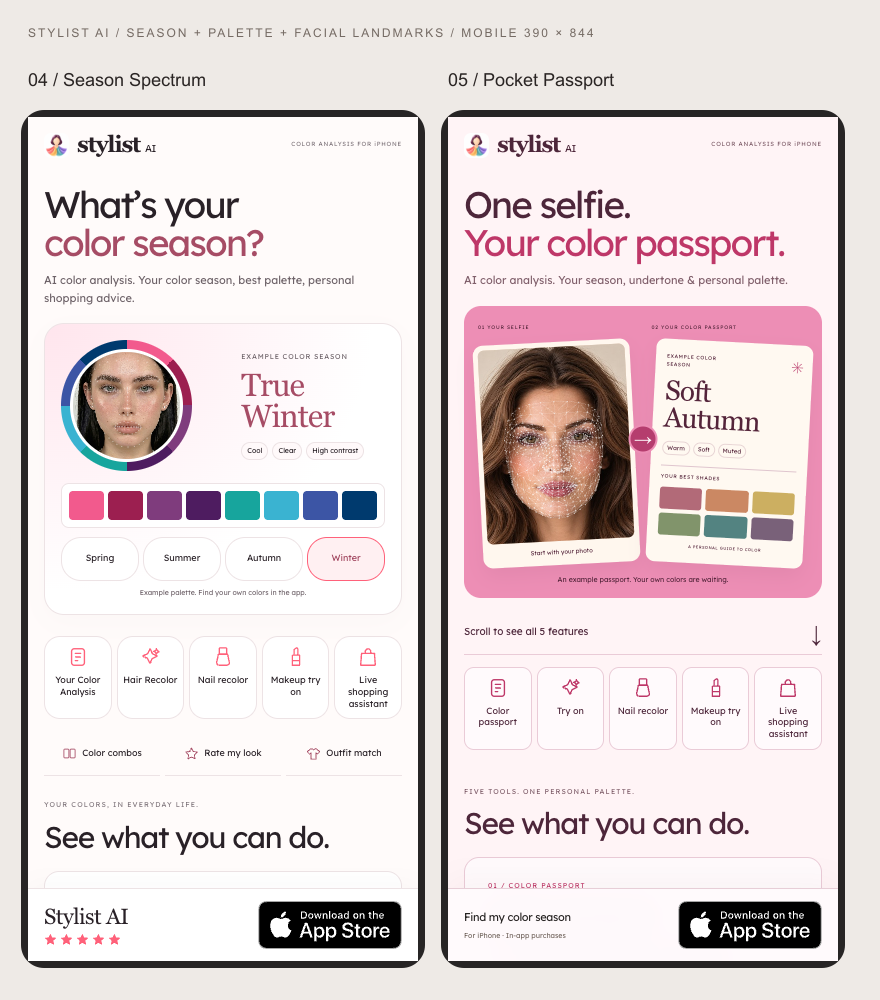
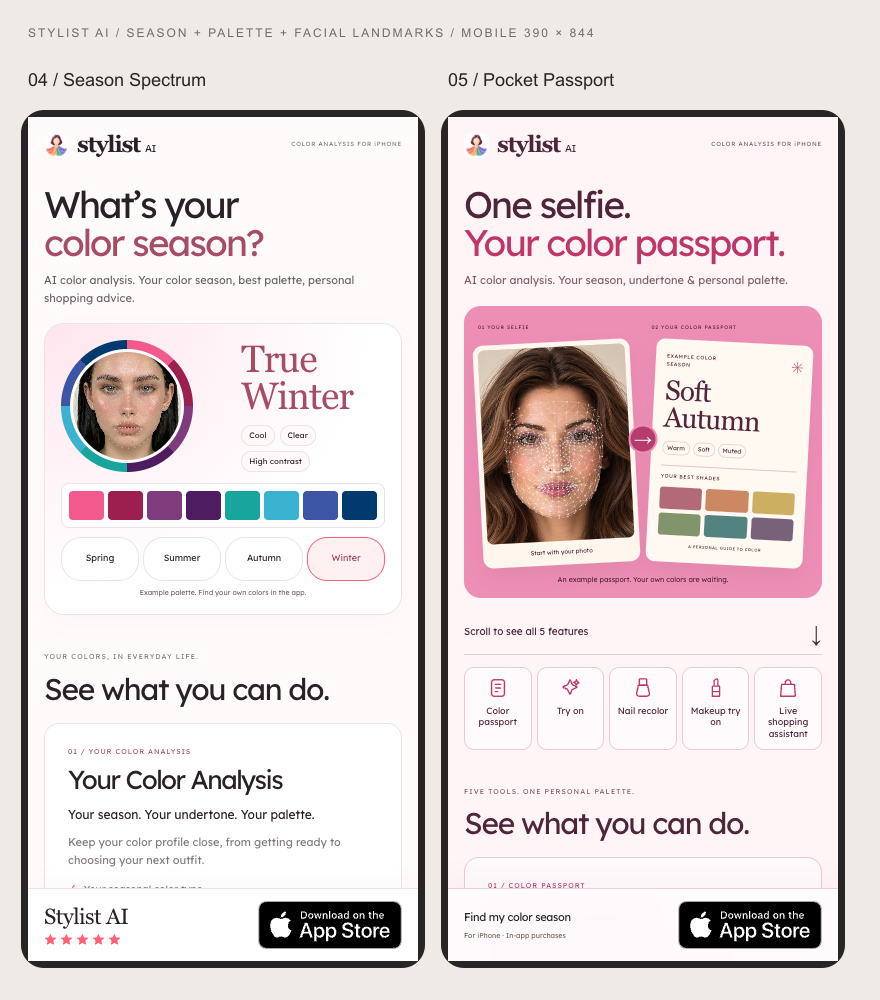
Simplify feature navigation and enlarge the seasonal result

diff --git a/stylist_ai/landing/v2/04-season-spectrum/index.html b/stylist_ai/landing/v2/04-season-spectrum/index.html
@@ -1,3 +1,3 @@
 <!doctype html><html lang="en"><head>
-<meta charset="utf-8"><meta name="viewport" content="width=device-width,initial-scale=1,viewport-fit=cover"><meta name="theme-color" content="#FFFBFA"><title>Find your color season — Stylist AI</title><meta name="description" content="Discover your color season and palette. Try hair and makeup looks, recolor nails, and take your palette shopping with Stylist AI for iPhone."><meta property="og:title" content="Your season. Your palette. Stylist AI."><meta property="og:description" content="Your Color Analysis, color combos, beauty tools, outfit advice & live shopping. Find your colors with Stylist AI."><meta property="og:type" content="website"><meta property="og:image" content="https://bestme.mobi/stylist_ai/landing/v2/assets/social-spectrum.jpg"><link rel="icon" href="../assets/icon.png"><link rel="stylesheet" href="../styles.css?v=2"><script src="../app.js?v=3" defer></script><link rel="stylesheet" href="./spectrum.css?v=7"></head>
-<body class="spectrum" data-variant="04-season-spectrum" id="top"><a class="skip" href="#main">Skip to content</a><header class="site-header container"><a class="brand" href="#top" aria-label="Stylist AI home"><img src="../assets/icon.png" width="28" height="28" alt=""><span>stylist <b>AI</b></span></a><span class="header-caption">COLOR ANALYSIS FOR iPHONE</span></header><main id="main"><section class="hero container" aria-label="Discover your color season"><div class="hero-intro"><h1>What’s your<br><em>color season?</em></h1><p>AI color analysis. Your color season, best palette, personal shopping advice.</p></div><div class="hero-proof"><div class="result-card"><div class="spectrum-pair"><div class="color-halo"><div class="face-photo"><img class="portrait" src="../assets/winter-model.jpg" width="834" height="1482" alt="Stylist AI ad model with subtle glowing facial landmark dots" fetchpriority="high"><img class="mesh" src="../assets/winter-landmarks.svg" width="834" height="1482" alt="" aria-hidden="true"></div></div><div class="season-result"><p class="micro">EXAMPLE COLOR SEASON</p><strong data-season-result>True Winter</strong><p class="traits"><span>Cool</span><span>Clear</span><span>High contrast</span></p></div></div><div class="palette hero-palette" data-first-palette aria-label="Sample True Winter color palette"><div class="color" style="--color:#F25A8D" title="Pink"><i></i></div><div class="color" style="--color:#9C1F50" title="Berry"><i></i></div><div class="color" style="--color:#7F3C7D" title="Orchid"><i></i></div><div class="color" style="--color:#4E1C60" title="Plum"><i></i></div><div class="color" style="--color:#17A59D" title="Teal"><i></i></div><div class="color" style="--color:#3AB3D1" title="Aqua"><i></i></div><div class="color" style="--color:#3C55A5" title="Cobalt"><i></i></div><div class="color" style="--color:#003A6E" title="Navy"><i></i></div></div><div class="season-tabs" role="group" aria-label="Preview example seasonal palettes"><button type="button" data-season="spring" aria-pressed="false">Spring</button><button type="button" data-season="summer" aria-pressed="false">Summer</button><button type="button" data-season="autumn" aria-pressed="false">Autumn</button><button type="button" data-season="winter" aria-pressed="true">Winter</button></div><span class="sample-disclaimer">Example palette. Find your own colors in the app.</span></div></div></section><nav class="feature-nav container" aria-label="Stylist AI features"><a href="#passport" aria-label="See Your Color Analysis"><svg viewBox="0 0 24 24" fill="none" stroke="currentColor" stroke-width="1.5" stroke-linecap="round" stroke-linejoin="round" aria-hidden="true"><rect x="5" y="3" width="14" height="18" rx="3"/><path d="M9 8h6M9 12h6M9 16h3"/></svg><span>Your Color Analysis</span></a><a href="#try-on" aria-label="See Hair Recolor"><svg viewBox="0 0 24 24" fill="none" stroke="currentColor" stroke-width="1.5" stroke-linecap="round" stroke-linejoin="round" aria-hidden="true"><path d="m12 3 2.6 5.4L20 11l-5.4 2.6L12 19l-2.6-5.4L4 11l5.4-2.6Z"/><path d="m19 3 1 2 2 1-2 1-1 2-1-2-2-1 2-1Z"/></svg><span>Hair Recolor</span></a><a href="#nails" aria-label="See Nail recolor"><svg viewBox="0 0 24 24" fill="none" stroke="currentColor" stroke-width="1.5" stroke-linecap="round" stroke-linejoin="round" aria-hidden="true"><rect x="8" y="2" width="8" height="7" rx="1"/><path d="M7 9h10l2 9a3 3 0 0 1-3 3H8a3 3 0 0 1-3-3Z"/></svg><span>Nail recolor</span></a><a href="#makeup" aria-label="See Makeup try on"><svg viewBox="0 0 24 24" fill="none" stroke="currentColor" stroke-width="1.5" stroke-linecap="round" stroke-linejoin="round" aria-hidden="true"><path d="M8 10h8v11H8zM10 10V4c0-1 4-3 4-1v7M8 16h8"/></svg><span>Makeup try on</span></a><a href="#shopping" aria-label="See Live shopping assistant"><svg viewBox="0 0 24 24" fill="none" stroke="currentColor" stroke-width="1.5" stroke-linecap="round" stroke-linejoin="round" aria-hidden="true"><path d="M5 8h14l1 13H4ZM9 8V6a3 3 0 0 1 6 0v2"/></svg><span>Live shopping assistant</span></a></nav><nav class="feature-shortcuts container" aria-label="More styling tools"><a href="#combos" aria-label="See Color combos"><svg viewBox="0 0 24 24" fill="none" stroke="currentColor" stroke-width="1.4" stroke-linecap="round" stroke-linejoin="round" aria-hidden="true"><rect x="3" y="5" width="8" height="14" rx="2"/><rect x="13" y="5" width="8" height="14" rx="2"/></svg><span>Color combos</span></a><a href="#rate-look" aria-label="See Rate my look"><svg viewBox="0 0 24 24" fill="none" stroke="currentColor" stroke-width="1.4" stroke-linecap="round" stroke-linejoin="round" aria-hidden="true"><path d="m12 3 2.8 5.8 6.4.9-4.6 4.5 1.1 6.4-5.7-3-5.7 3 1.1-6.4-4.6-4.5 6.4-.9Z"/></svg><span>Rate my look</span></a><a href="#outfit-match" aria-label="See Outfit match"><svg viewBox="0 0 24 24" fill="none" stroke="currentColor" stroke-width="1.4" stroke-linecap="round" stroke-linejoin="round" aria-hidden="true"><path d="m8 4 4 2 4-2 6 5-4 4-2-2v10H8V11l-2 2-4-4Z"/></svg><span>Outfit match</span></a></nav><section class="features container" id="features"><div class="section-heading"><span class="micro">YOUR COLORS, IN EVERYDAY LIFE.</span><h2>See what you can do.</h2></div><article id="passport" class="passport-feature" data-feature="passport"><div class="passport-feature-copy"><p class="number">01 / YOUR COLOR ANALYSIS</p><h3>Your Color Analysis</h3><p class="benefit">Your season. Your undertone. Your palette.</p><p>Keep your color profile close, from getting ready to choosing your next outfit.</p><ul><li>Your seasonal color type</li><li>Your personal palette</li><li>Color guidance for your look</li></ul></div><div class="passport-feature-art"><span class="micro">YOUR COLOR ANALYSIS · EXAMPLE</span><strong>True Winter</strong><div class="attribute-row"><span>Cool undertone</span><span>High contrast</span></div><div class="palette " aria-label="Sample True Winter color palette"><div class="color" style="--color:#F25A8D" title="Pink"><i></i><span>Pink</span></div><div class="color" style="--color:#9C1F50" title="Berry"><i></i><span>Berry</span></div><div class="color" style="--color:#7F3C7D" title="Orchid"><i></i><span>Orchid</span></div><div class="color" style="--color:#4E1C60" title="Plum"><i></i><span>Plum</span></div><div class="color" style="--color:#17A59D" title="Teal"><i></i><span>Teal</span></div><div class="color" style="--color:#3AB3D1" title="Aqua"><i></i><span>Aqua</span></div><div class="color" style="--color:#3C55A5" title="Cobalt"><i></i><span>Cobalt</span></div><div class="color" style="--color:#003A6E" title="Navy"><i></i><span>Navy</span></div></div></div></article><div class="feature-grid"><article class="feature-card" id="combos" data-feature="combos"><div class="feature-image"><img src="../assets/color-combos-ai.webp" width="960" height="960" loading="lazy" alt="Cobalt blue with icy white and raspberry pink with charcoal: two coordinated outfit color pairings"><span class="feature-image-icon"><svg viewBox="0 0 24 24" fill="none" stroke="currentColor" stroke-width="1.4" stroke-linecap="round" stroke-linejoin="round" aria-hidden="true"><rect x="3" y="5" width="8" height="14" rx="2"/><rect x="13" y="5" width="8" height="14" rx="2"/></svg></span></div><div class="feature-copy"><p class="number">COLOR COMBINATIONS</p><h3>Best color combos</h3><p class="benefit">Turn your palette into outfits.</p><p>Discover colors that work together, with outfit pairings and tips on how to wear them.</p><a href="https://apps.apple.com/app/id6739435502" target="_top" data-download data-placement="combos">Try in Stylist AI <span aria-hidden="true">↗</span></a></div></article><article class="feature-card" id="try-on" data-feature="try-on"><div class="feature-image"><img src="../assets/hair.webp" width="720" height="900" loading="lazy" alt="Hair Recolor example"><span class="feature-image-icon"><svg viewBox="0 0 24 24" fill="none" stroke="currentColor" stroke-width="1.5" stroke-linecap="round" stroke-linejoin="round" aria-hidden="true"><path d="m12 3 2.6 5.4L20 11l-5.4 2.6L12 19l-2.6-5.4L4 11l5.4-2.6Z"/><path d="m19 3 1 2 2 1-2 1-1 2-1-2-2-1 2-1Z"/></svg></span></div><div class="feature-copy"><p class="number">02 / HAIR RECOLOR</p><h3>Hair Recolor</h3><p class="benefit">Find your next hair color.</p><p>Preview a new hair shade on your own photo before you make a change.</p><a href="https://apps.apple.com/app/id6739435502" target="_top" data-download data-placement="try-on">Try in Stylist AI <span aria-hidden="true">↗</span></a></div></article><article class="feature-card" id="nails" data-feature="nails"><div class="feature-image"><img src="../assets/nails.webp" width="720" height="900" loading="lazy" alt="Nail recolor example"><span class="feature-image-icon"><svg viewBox="0 0 24 24" fill="none" stroke="currentColor" stroke-width="1.5" stroke-linecap="round" stroke-linejoin="round" aria-hidden="true"><rect x="8" y="2" width="8" height="7" rx="1"/><path d="M7 9h10l2 9a3 3 0 0 1-3 3H8a3 3 0 0 1-3-3Z"/></svg></span></div><div class="feature-copy"><p class="number">03 / NAIL RECOLOR</p><h3>Nail recolor</h3><p class="benefit">Pick your polish before the salon.</p><p>Preview a new nail color and find your next manicure shade.</p><a href="https://apps.apple.com/app/id6739435502" target="_top" data-download data-placement="nails">Try in Stylist AI <span aria-hidden="true">↗</span></a></div></article><article class="feature-card" id="makeup" data-feature="makeup"><div class="feature-image"><img src="../assets/makeup-try-on.webp" width="720" height="900" loading="lazy" alt="Before and after makeup try on example"><span class="feature-image-icon"><svg viewBox="0 0 24 24" fill="none" stroke="currentColor" stroke-width="1.5" stroke-linecap="round" stroke-linejoin="round" aria-hidden="true"><path d="M8 10h8v11H8zM10 10V4c0-1 4-3 4-1v7M8 16h8"/></svg></span><span class="makeup-divider" aria-hidden="true"></span><span class="makeup-label before">Before</span><span class="makeup-label after">After</span></div><div class="feature-copy"><p class="number">04 / MAKEUP TRY ON</p><h3>Makeup try on</h3><p class="benefit">Try the makeup look on you.</p><p>See how a new makeup combination looks on your own photo.</p><a href="https://apps.apple.com/app/id6739435502" target="_top" data-download data-placement="makeup">Try in Stylist AI <span aria-hidden="true">↗</span></a></div></article><article class="feature-card" id="shopping" data-feature="shopping"><div class="feature-image"><img src="../assets/shopping-fabric.jpg" width="720" height="900" loading="lazy" alt="Live shopping assistant example"><span class="shopping-scan" aria-hidden="true"><i></i></span><span class="art-example">Example</span><div class="match-overlay"><svg viewBox="0 0 40 40" aria-hidden="true"><circle cx="20" cy="20" r="16" fill="none" stroke="#e8efeb" stroke-width="3"/><circle cx="20" cy="20" r="16" fill="none" stroke="#28755c" stroke-width="3" stroke-linecap="round" stroke-dasharray="92 100" pathLength="100" transform="rotate(-90 20 20)"/><path d="m14 20 4 4 8-9" fill="none" stroke="#28755c" stroke-width="2" stroke-linecap="round" stroke-linejoin="round"/></svg><span><strong>92%</strong><small>match with your style</small></span></div></div><div class="feature-copy"><p class="number">05 / LIVE SHOPPING ASSISTANT</p><h3>Live shopping assistant</h3><p class="benefit">Check a color while you shop.</p><p>Point your camera at a shade and compare it with your personal palette.</p><a href="https://apps.apple.com/app/id6739435502" target="_top" data-download data-placement="shopping">Try in Stylist AI <span aria-hidden="true">↗</span></a></div></article><article class="feature-card" id="rate-look" data-feature="rate-look"><div class="feature-image"><img src="../assets/rate-look.jpg" loading="lazy" alt="Rate my look preview"><span class="art-example">Example</span><div class="look-rating"><span class="rating-star" aria-hidden="true">✧</span><span><strong>8<small>/10</small></strong><small>Overall styling</small></span></div></div><div class="feature-copy"><p class="number">THE STYLE EDIT</p><h3>Rate my look</h3><p class="benefit">Polish the whole outfit.</p><p>Upload your look for a style rating, practical advice and scores for different occasions.</p><a href="https://apps.apple.com/app/id6739435502" target="_top" data-download data-placement="rate-look">Try in Stylist AI <span aria-hidden="true">↗</span></a></div></article><article class="feature-card" id="outfit-match" data-feature="outfit-match"><div class="feature-image"><img src="../assets/outfit.webp" loading="lazy" alt="Will that outfit suit me? preview"><span class="art-example">Example</span><div class="match-overlay"><svg viewBox="0 0 40 40" aria-hidden="true"><circle cx="20" cy="20" r="16" fill="none" stroke="#e8efeb" stroke-width="3"/><circle cx="20" cy="20" r="16" fill="none" stroke="#28755c" stroke-width="3" stroke-linecap="round" stroke-dasharray="94 100" pathLength="100" transform="rotate(-90 20 20)"/><path d="m14 20 4 4 8-9" fill="none" stroke="#28755c" stroke-width="2" stroke-linecap="round" stroke-linejoin="round"/></svg><span><strong>94%</strong><small>you will shine with it</small></span></div></div><div class="feature-copy"><p class="number">OUTFIT MATCH</p><h3>Will that outfit suit me?</h3><p class="benefit">Check it before you buy it.</p><p>Upload an outfit photo to see how its colors work with your season and personal palette.</p><a href="https://apps.apple.com/app/id6739435502" target="_top" data-download data-placement="outfit-match">Try in Stylist AI <span aria-hidden="true">↗</span></a></div></article></div></section><section class="how container"><div><span class="micro">START WITH A SELFIE</span><h2>Your colors, in three steps.</h2></div><ol><li><b>01</b><span>Download Stylist AI</span></li><li><b>02</b><span>Add a clear photo in natural light</span></li><li><b>03</b><span>Discover your season & try your colors</span></li></ol></section><section class="closing container"><p class="micro">YOUR SEASON IS JUST THE START</p><h2>Find your colors.<br>Try them on you.</h2><p>Color analysis, beauty try-on & shopping — in one app.</p></section></main><footer class="container"><a class="brand" href="#top" aria-label="Stylist AI home"><img src="../assets/icon.png" width="28" height="28" alt=""><span>stylist <b>AI</b></span></a><div class="legal-links"><a href="https://bestme.mobi/stylist-ai-privacy-policy.html">Privacy</a><a href="https://bestme.mobi/stylist-ai-terms-of-use.html">Terms</a><a href="https://bestme.mobi/support.html">Support</a></div><p>Example imagery, palettes and scores. Results vary. © Aleksandr Korenev.</p><p>Apple and the Apple logo are trademarks of Apple Inc. App Store is a service mark of Apple Inc.</p></footer><aside class="download-dock" aria-label="Download Stylist AI"><div class="dock-inner"><div class="dock-copy"><strong>Stylist AI</strong><span class="dock-stars" aria-hidden="true"><svg viewBox="0 0 20 20"><path d="m10 1 2.7 5.7 6.3.9-4.5 4.4 1.1 6.2-5.6-3-5.6 3 1.1-6.2L1 7.6l6.3-.9Z"/></svg><svg viewBox="0 0 20 20"><path d="m10 1 2.7 5.7 6.3.9-4.5 4.4 1.1 6.2-5.6-3-5.6 3 1.1-6.2L1 7.6l6.3-.9Z"/></svg><svg viewBox="0 0 20 20"><path d="m10 1 2.7 5.7 6.3.9-4.5 4.4 1.1 6.2-5.6-3-5.6 3 1.1-6.2L1 7.6l6.3-.9Z"/></svg><svg viewBox="0 0 20 20"><path d="m10 1 2.7 5.7 6.3.9-4.5 4.4 1.1 6.2-5.6-3-5.6 3 1.1-6.2L1 7.6l6.3-.9Z"/></svg><svg viewBox="0 0 20 20"><path d="m10 1 2.7 5.7 6.3.9-4.5 4.4 1.1 6.2-5.6-3-5.6 3 1.1-6.2L1 7.6l6.3-.9Z"/></svg></span></div><a class="app-store" href="https://apps.apple.com/app/id6739435502" target="_top" data-download data-placement="sticky" aria-label="Download Stylist AI on the App Store"><img src="../assets/app-store.svg" width="150" height="50" alt="Download on the App Store"></a></div></aside></body></html>
+<meta charset="utf-8"><meta name="viewport" content="width=device-width,initial-scale=1,viewport-fit=cover"><meta name="theme-color" content="#FFFBFA"><title>Find your color season — Stylist AI</title><meta name="description" content="Discover your color season and palette. Try hair and makeup looks, recolor nails, and take your palette shopping with Stylist AI for iPhone."><meta property="og:title" content="Your season. Your palette. Stylist AI."><meta property="og:description" content="Your Color Analysis, color combos, beauty tools, outfit advice & live shopping. Find your colors with Stylist AI."><meta property="og:type" content="website"><meta property="og:image" content="https://bestme.mobi/stylist_ai/landing/v2/assets/social-spectrum.jpg"><link rel="icon" href="../assets/icon.png"><link rel="stylesheet" href="../styles.css?v=2"><script src="../app.js?v=3" defer></script><link rel="stylesheet" href="./spectrum.css?v=9"></head>
+<body class="spectrum" data-variant="04-season-spectrum" id="top"><a class="skip" href="#main">Skip to content</a><header class="site-header container"><a class="brand" href="#top" aria-label="Stylist AI home"><img src="../assets/icon.png" width="28" height="28" alt=""><span>stylist <b>AI</b></span></a><span class="header-caption">COLOR ANALYSIS FOR iPHONE</span></header><main id="main"><section class="hero container" aria-label="Discover your color season"><div class="hero-intro"><h1>What’s your<br><em>color season?</em></h1><p>AI color analysis. Your color season, best palette, personal shopping advice.</p></div><div class="hero-proof"><div class="result-card"><div class="spectrum-pair"><div class="color-halo"><div class="face-photo"><img class="portrait" src="../assets/winter-model.jpg" width="834" height="1482" alt="Stylist AI ad model with subtle glowing facial landmark dots" fetchpriority="high"><img class="mesh" src="../assets/winter-landmarks.svg" width="834" height="1482" alt="" aria-hidden="true"></div></div><div class="season-result"><strong data-season-result>True Winter</strong><p class="traits"><span>Cool</span><span>Clear</span><span>High contrast</span></p></div></div><div class="palette hero-palette" data-first-palette aria-label="Sample True Winter color palette"><div class="color" style="--color:#F25A8D" title="Pink"><i></i></div><div class="color" style="--color:#9C1F50" title="Berry"><i></i></div><div class="color" style="--color:#7F3C7D" title="Orchid"><i></i></div><div class="color" style="--color:#4E1C60" title="Plum"><i></i></div><div class="color" style="--color:#17A59D" title="Teal"><i></i></div><div class="color" style="--color:#3AB3D1" title="Aqua"><i></i></div><div class="color" style="--color:#3C55A5" title="Cobalt"><i></i></div><div class="color" style="--color:#003A6E" title="Navy"><i></i></div></div><div class="season-tabs" role="group" aria-label="Preview example seasonal palettes"><button type="button" data-season="spring" aria-pressed="false">Spring</button><button type="button" data-season="summer" aria-pressed="false">Summer</button><button type="button" data-season="autumn" aria-pressed="false">Autumn</button><button type="button" data-season="winter" aria-pressed="true">Winter</button></div><span class="sample-disclaimer">Example palette. Find your own colors in the app.</span></div></div></section><section class="features container" id="features"><div class="section-heading"><span class="micro">YOUR COLORS, IN EVERYDAY LIFE.</span><h2>See what you can do.</h2></div><article id="passport" class="passport-feature" data-feature="passport"><div class="passport-feature-copy"><p class="number">01 / YOUR COLOR ANALYSIS</p><h3>Your Color Analysis</h3><p class="benefit">Your season. Your undertone. Your palette.</p><p>Keep your color profile close, from getting ready to choosing your next outfit.</p><ul><li>Your seasonal color type</li><li>Your personal palette</li><li>Color guidance for your look</li></ul></div><div class="passport-feature-art"><span class="micro">YOUR COLOR ANALYSIS · EXAMPLE</span><strong>True Winter</strong><div class="attribute-row"><span>Cool undertone</span><span>High contrast</span></div><div class="palette " aria-label="Sample True Winter color palette"><div class="color" style="--color:#F25A8D" title="Pink"><i></i><span>Pink</span></div><div class="color" style="--color:#9C1F50" title="Berry"><i></i><span>Berry</span></div><div class="color" style="--color:#7F3C7D" title="Orchid"><i></i><span>Orchid</span></div><div class="color" style="--color:#4E1C60" title="Plum"><i></i><span>Plum</span></div><div class="color" style="--color:#17A59D" title="Teal"><i></i><span>Teal</span></div><div class="color" style="--color:#3AB3D1" title="Aqua"><i></i><span>Aqua</span></div><div class="color" style="--color:#3C55A5" title="Cobalt"><i></i><span>Cobalt</span></div><div class="color" style="--color:#003A6E" title="Navy"><i></i><span>Navy</span></div></div></div></article><div class="feature-grid"><article class="feature-card" id="combos" data-feature="combos"><div class="feature-image"><img src="../assets/color-combos-ai.webp" width="960" height="960" loading="lazy" alt="Cobalt blue with icy white and raspberry pink with charcoal: two coordinated outfit color pairings"><span class="feature-image-icon"><svg viewBox="0 0 24 24" fill="none" stroke="currentColor" stroke-width="1.4" stroke-linecap="round" stroke-linejoin="round" aria-hidden="true"><rect x="3" y="5" width="8" height="14" rx="2"/><rect x="13" y="5" width="8" height="14" rx="2"/></svg></span></div><div class="feature-copy"><p class="number">COLOR COMBINATIONS</p><h3>Best color combos</h3><p class="benefit">Turn your palette into outfits.</p><p>Discover colors that work together, with outfit pairings and tips on how to wear them.</p><a href="https://apps.apple.com/app/id6739435502" target="_top" data-download data-placement="combos">Try in Stylist AI <span aria-hidden="true">↗</span></a></div></article><article class="feature-card" id="try-on" data-feature="try-on"><div class="feature-image"><img src="../assets/hair.webp" width="720" height="900" loading="lazy" alt="Hair Recolor example"><span class="feature-image-icon"><svg viewBox="0 0 24 24" fill="none" stroke="currentColor" stroke-width="1.5" stroke-linecap="round" stroke-linejoin="round" aria-hidden="true"><path d="m12 3 2.6 5.4L20 11l-5.4 2.6L12 19l-2.6-5.4L4 11l5.4-2.6Z"/><path d="m19 3 1 2 2 1-2 1-1 2-1-2-2-1 2-1Z"/></svg></span></div><div class="feature-copy"><p class="number">02 / HAIR RECOLOR</p><h3>Hair Recolor</h3><p class="benefit">Find your next hair color.</p><p>Preview a new hair shade on your own photo before you make a change.</p><a href="https://apps.apple.com/app/id6739435502" target="_top" data-download data-placement="try-on">Try in Stylist AI <span aria-hidden="true">↗</span></a></div></article><article class="feature-card" id="nails" data-feature="nails"><div class="feature-image"><img src="../assets/nails.webp" width="720" height="900" loading="lazy" alt="Nail Polish example"><span class="feature-image-icon"><svg viewBox="0 0 24 24" fill="none" stroke="currentColor" stroke-width="1.5" stroke-linecap="round" stroke-linejoin="round" aria-hidden="true"><rect x="8" y="2" width="8" height="7" rx="1"/><path d="M7 9h10l2 9a3 3 0 0 1-3 3H8a3 3 0 0 1-3-3Z"/></svg></span></div><div class="feature-copy"><p class="number">03 / NAIL POLISH</p><h3>Nail Polish</h3><p class="benefit">Pick your polish before the salon.</p><p>Preview a new nail color and find your next manicure shade.</p><a href="https://apps.apple.com/app/id6739435502" target="_top" data-download data-placement="nails">Try in Stylist AI <span aria-hidden="true">↗</span></a></div></article><article class="feature-card" id="makeup" data-feature="makeup"><div class="feature-image"><img src="../assets/makeup-try-on.webp" width="720" height="900" loading="lazy" alt="Before and after makeup try on example"><span class="feature-image-icon"><svg viewBox="0 0 24 24" fill="none" stroke="currentColor" stroke-width="1.5" stroke-linecap="round" stroke-linejoin="round" aria-hidden="true"><path d="M8 10h8v11H8zM10 10V4c0-1 4-3 4-1v7M8 16h8"/></svg></span><span class="makeup-divider" aria-hidden="true"></span><span class="makeup-label before">Before</span><span class="makeup-label after">After</span></div><div class="feature-copy"><p class="number">04 / MAKEUP TRY ON</p><h3>Makeup try on</h3><p class="benefit">Try the makeup look on you.</p><p>See how a new makeup combination looks on your own photo.</p><a href="https://apps.apple.com/app/id6739435502" target="_top" data-download data-placement="makeup">Try in Stylist AI <span aria-hidden="true">↗</span></a></div></article><article class="feature-card" id="shopping" data-feature="shopping"><div class="feature-image"><img src="../assets/shopping-fabric.jpg" width="720" height="900" loading="lazy" alt="Live shopping assistant example"><span class="shopping-scan" aria-hidden="true"><i></i></span><span class="art-example">Example</span><div class="match-overlay"><svg viewBox="0 0 40 40" aria-hidden="true"><circle cx="20" cy="20" r="16" fill="none" stroke="#e8efeb" stroke-width="3"/><circle cx="20" cy="20" r="16" fill="none" stroke="#28755c" stroke-width="3" stroke-linecap="round" stroke-dasharray="92 100" pathLength="100" transform="rotate(-90 20 20)"/><path d="m14 20 4 4 8-9" fill="none" stroke="#28755c" stroke-width="2" stroke-linecap="round" stroke-linejoin="round"/></svg><span><strong>92%</strong><small>match with your style</small></span></div></div><div class="feature-copy"><p class="number">05 / LIVE SHOPPING ASSISTANT</p><h3>Live shopping assistant</h3><p class="benefit">Check a color while you shop.</p><p>Point your camera at a shade and compare it with your personal palette.</p><a href="https://apps.apple.com/app/id6739435502" target="_top" data-download data-placement="shopping">Try in Stylist AI <span aria-hidden="true">↗</span></a></div></article><article class="feature-card" id="rate-look" data-feature="rate-look"><div class="feature-image"><img src="../assets/rate-look.jpg" loading="lazy" alt="Rate my look preview"><span class="art-example">Example</span><div class="look-rating"><span class="rating-star" aria-hidden="true">✧</span><span><strong>8<small>/10</small></strong><small>Overall styling</small></span></div></div><div class="feature-copy"><p class="number">THE STYLE EDIT</p><h3>Rate my look</h3><p class="benefit">Polish the whole outfit.</p><p>Upload your look for a style rating, practical advice and scores for different occasions.</p><a href="https://apps.apple.com/app/id6739435502" target="_top" data-download data-placement="rate-look">Try in Stylist AI <span aria-hidden="true">↗</span></a></div></article><article class="feature-card" id="outfit-match" data-feature="outfit-match"><div class="feature-image"><img src="../assets/outfit.webp" loading="lazy" alt="Will that outfit suit me? preview"><span class="art-example">Example</span><div class="match-overlay"><svg viewBox="0 0 40 40" aria-hidden="true"><circle cx="20" cy="20" r="16" fill="none" stroke="#e8efeb" stroke-width="3"/><circle cx="20" cy="20" r="16" fill="none" stroke="#28755c" stroke-width="3" stroke-linecap="round" stroke-dasharray="94 100" pathLength="100" transform="rotate(-90 20 20)"/><path d="m14 20 4 4 8-9" fill="none" stroke="#28755c" stroke-width="2" stroke-linecap="round" stroke-linejoin="round"/></svg><span><strong>94%</strong><small>you will shine with it</small></span></div></div><div class="feature-copy"><p class="number">OUTFIT MATCH</p><h3>Will that outfit suit me?</h3><p class="benefit">Check it before you buy it.</p><p>Upload an outfit photo to see how its colors work with your season and personal palette.</p><a href="https://apps.apple.com/app/id6739435502" target="_top" data-download data-placement="outfit-match">Try in Stylist AI <span aria-hidden="true">↗</span></a></div></article></div></section><section class="how container"><div><span class="micro">START WITH A SELFIE</span><h2>Your colors, in three steps.</h2></div><ol><li><b>01</b><span>Download Stylist AI</span></li><li><b>02</b><span>Add a clear photo in natural light</span></li><li><b>03</b><span>Discover your season & try your colors</span></li></ol></section><section class="closing container"><p class="micro">YOUR SEASON IS JUST THE START</p><h2>Find your colors.<br>Try them on you.</h2><p>Color analysis, beauty try-on & shopping — in one app.</p></section></main><footer class="container"><a class="brand" href="#top" aria-label="Stylist AI home"><img src="../assets/icon.png" width="28" height="28" alt=""><span>stylist <b>AI</b></span></a><div class="legal-links"><a href="https://bestme.mobi/stylist-ai-privacy-policy.html">Privacy</a><a href="https://bestme.mobi/stylist-ai-terms-of-use.html">Terms</a><a href="https://bestme.mobi/support.html">Support</a></div><p>Example imagery, palettes and scores. Results vary. © Aleksandr Korenev.</p><p>Apple and the Apple logo are trademarks of Apple Inc. App Store is a service mark of Apple Inc.</p></footer><aside class="download-dock" aria-label="Download Stylist AI"><div class="dock-inner"><div class="dock-copy"><strong>Stylist AI</strong><span class="dock-stars" aria-hidden="true"><svg viewBox="0 0 20 20"><path d="m10 1 2.7 5.7 6.3.9-4.5 4.4 1.1 6.2-5.6-3-5.6 3 1.1-6.2L1 7.6l6.3-.9Z"/></svg><svg viewBox="0 0 20 20"><path d="m10 1 2.7 5.7 6.3.9-4.5 4.4 1.1 6.2-5.6-3-5.6 3 1.1-6.2L1 7.6l6.3-.9Z"/></svg><svg viewBox="0 0 20 20"><path d="m10 1 2.7 5.7 6.3.9-4.5 4.4 1.1 6.2-5.6-3-5.6 3 1.1-6.2L1 7.6l6.3-.9Z"/></svg><svg viewBox="0 0 20 20"><path d="m10 1 2.7 5.7 6.3.9-4.5 4.4 1.1 6.2-5.6-3-5.6 3 1.1-6.2L1 7.6l6.3-.9Z"/></svg><svg viewBox="0 0 20 20"><path d="m10 1 2.7 5.7 6.3.9-4.5 4.4 1.1 6.2-5.6-3-5.6 3 1.1-6.2L1 7.6l6.3-.9Z"/></svg></span></div><a class="app-store" href="https://apps.apple.com/app/id6739435502" target="_top" data-download data-placement="sticky" aria-label="Download Stylist AI on the App Store"><img src="../assets/app-store.svg" width="150" height="50" alt="Download on the App Store"></a></div></aside></body></html>

diff --git a/stylist_ai/landing/v2/04-season-spectrum/spectrum.css b/stylist_ai/landing/v2/04-season-spectrum/spectrum.css
@@ -27,18 +27,14 @@
 .spectrum .color-halo .face-photo { height: 100%; width: 100%; border-color: #fff; background: #f4f3ef; }
 .spectrum .face-photo img { width: 100%; height: 100%; left: 0; top: 0; object-fit: cover; object-position: 50% 38%; }
 .spectrum .face-photo .mesh { opacity: .88; }
-.spectrum .season-result strong { color: #a64c65; }
-.spectrum .season-result .micro { color: #6d6268; }
-.spectrum .traits { flex-wrap: wrap; }
-.spectrum .traits span { border-color: var(--line); background: #fff9fa; }
+.spectrum .season-result strong { color: #a64c65; font-size: 50px; line-height: .98; margin: 0 0 14px; }
+.spectrum .traits { flex-wrap: wrap; gap: 6px; }
+.spectrum .traits span { border-color: var(--line); background: #fff9fa; font-size: 10px; padding: 4px 8px; }
 .spectrum .palette { grid-template-columns: repeat(8, minmax(0, 1fr)); }
 .spectrum .hero-palette { background: #fff; border: 1px solid var(--line); }
 .spectrum .season-tabs button { color: var(--ink); border-color: var(--line); background: #fff; }
 .spectrum .season-tabs button[aria-pressed=true] { color: #9f425c; background: #fff0f2; border-color: #ff617a; }
 .spectrum .sample-disclaimer { color: #71656c; }
-.spectrum .feature-nav { padding-top: 8px; }
-.spectrum .feature-nav a { border-radius: 16px; }
-.spectrum .feature-nav a:hover { border-color: #ff617a; }
 .spectrum .feature-image-icon { color: var(--ink); background: #fff; }
 .spectrum .number, .spectrum .feature-copy > a { color: #a64c65; }
 .spectrum .passport-feature-art { background: #fff0f2; }
@@ -50,11 +46,6 @@
 .spectrum .dock-copy strong { font: 22px/1.15 Georgia, serif; letter-spacing: -.5px; }
 .spectrum .dock-copy .dock-stars { display: flex; gap: 3px; color: #ff617a; line-height: 0; }
 .spectrum .dock-stars svg { width: 13px; height: 13px; fill: currentColor; }
-/* Small, direct links keep the new tools discoverable without crowding the hero. */
-.spectrum .feature-shortcuts { display: grid; grid-template-columns: repeat(3, minmax(0, 1fr)); gap: 8px; }
-.spectrum .feature-shortcuts a { display: flex; align-items: center; justify-content: center; gap: 8px; min-height: 44px; font-size: 11px; border-bottom: 1px solid var(--line); }
-.spectrum .feature-shortcuts svg { width: 18px; height: 18px; flex-shrink: 0; color: #a64c65; }
-.spectrum .feature-shortcuts a:hover { border-color: var(--accent); color: #a64c65; }
 .spectrum .feature-grid { grid-template-columns: repeat(3, minmax(0, 1fr)); }
 .spectrum .makeup-divider { position: absolute; top: 0; bottom: 0; left: 50%; width: 1.5px; transform: translateX(-50%); background: linear-gradient(transparent, #fff 7%, #fff 93%, transparent); box-shadow: 0 0 5px #29212735; pointer-events: none; }
 .spectrum .makeup-label { position: absolute; top: 12px; background: #ffffffed; color: var(--ink); padding: 5px 8px; border: 1px solid #ffffffb3; border-radius: 20px; font-size: 9px; line-height: 1; }
@@ -80,12 +71,10 @@
   .spectrum .result-card { height: 292px; }
   .spectrum .color-halo { padding: 9px; }
   .spectrum .spectrum-pair { gap: 15px; }
-  .spectrum .traits { font-size: 7px; gap: 4px; }
-  .spectrum .feature-nav a { min-height: 83px; font-size: 9px; }
+  .spectrum .season-result strong { font-size: 38px; margin: 0 0 10px; }
+  .spectrum .traits { gap: 5px; }
+  .spectrum .traits span { font-size: 8px; padding: 4px 7px; }
   .spectrum .sample-disclaimer { font-size: 7px; }
-  .spectrum .feature-shortcuts { gap: 5px; }
-  .spectrum .feature-shortcuts a { font-size: 9px; gap: 5px; }
-  .spectrum .feature-shortcuts svg { width: 15px; height: 15px; }
   .spectrum .feature-grid { grid-template-columns: repeat(2, minmax(0, 1fr)); }
   .spectrum .makeup-label { font-size: 7px; top: 9px; padding: 4px 7px; }
   .spectrum .makeup-label.before { left: 9px; }
@@ -102,8 +91,6 @@
   .spectrum #outfit-match .feature-copy h3 { font-size: 22px; }
 }
 @media (max-width: 360px) {
-  .spectrum .feature-shortcuts a { font-size: 8px; gap: 4px; }
-  .spectrum .feature-shortcuts svg { width: 13px; height: 13px; }
   .spectrum #outfit-match .feature-copy h3 { font-size: 20px; }
   .spectrum .match-overlay { gap: 5px; padding: 7px 6px; }
   .spectrum .match-overlay svg { width: 24px; height: 24px; }
@@ -113,14 +100,15 @@
 @media (max-width: 760px) and (max-height: 700px) {
   .spectrum .hero-intro > p { font-size: 10px; margin-top: 7px; }
   .spectrum .result-card { height: 245px; }
-  .spectrum .feature-nav a { min-height: 73px; font-size: 8px; }
-  .spectrum .traits { font-size: 6px; }
+  .spectrum .season-result strong { font-size: 32px; margin-bottom: 8px; }
+  .spectrum .traits span { font-size: 7px; padding: 3px 6px; }
   .spectrum .sample-disclaimer { font-size: 6px; }
 }
 @media (max-width: 760px) and (max-height: 600px) {
   .spectrum .hero-intro > p { display: block; font-size: 9px; line-height: 1.5; margin-top: 6px; }
   .spectrum .result-card { height: 224px; }
-  .spectrum .feature-nav a { min-height: 67px; font-size: 7px; }
-  .spectrum .traits span { font-size: 6px; }
+  .spectrum .season-result strong { font-size: 28px; margin-bottom: 7px; }
+  .spectrum .traits { gap: 4px; }
+  .spectrum .traits span { font-size: 6px; padding: 2px 5px; }
   .spectrum .sample-disclaimer { font-size: 5px; }
 }
